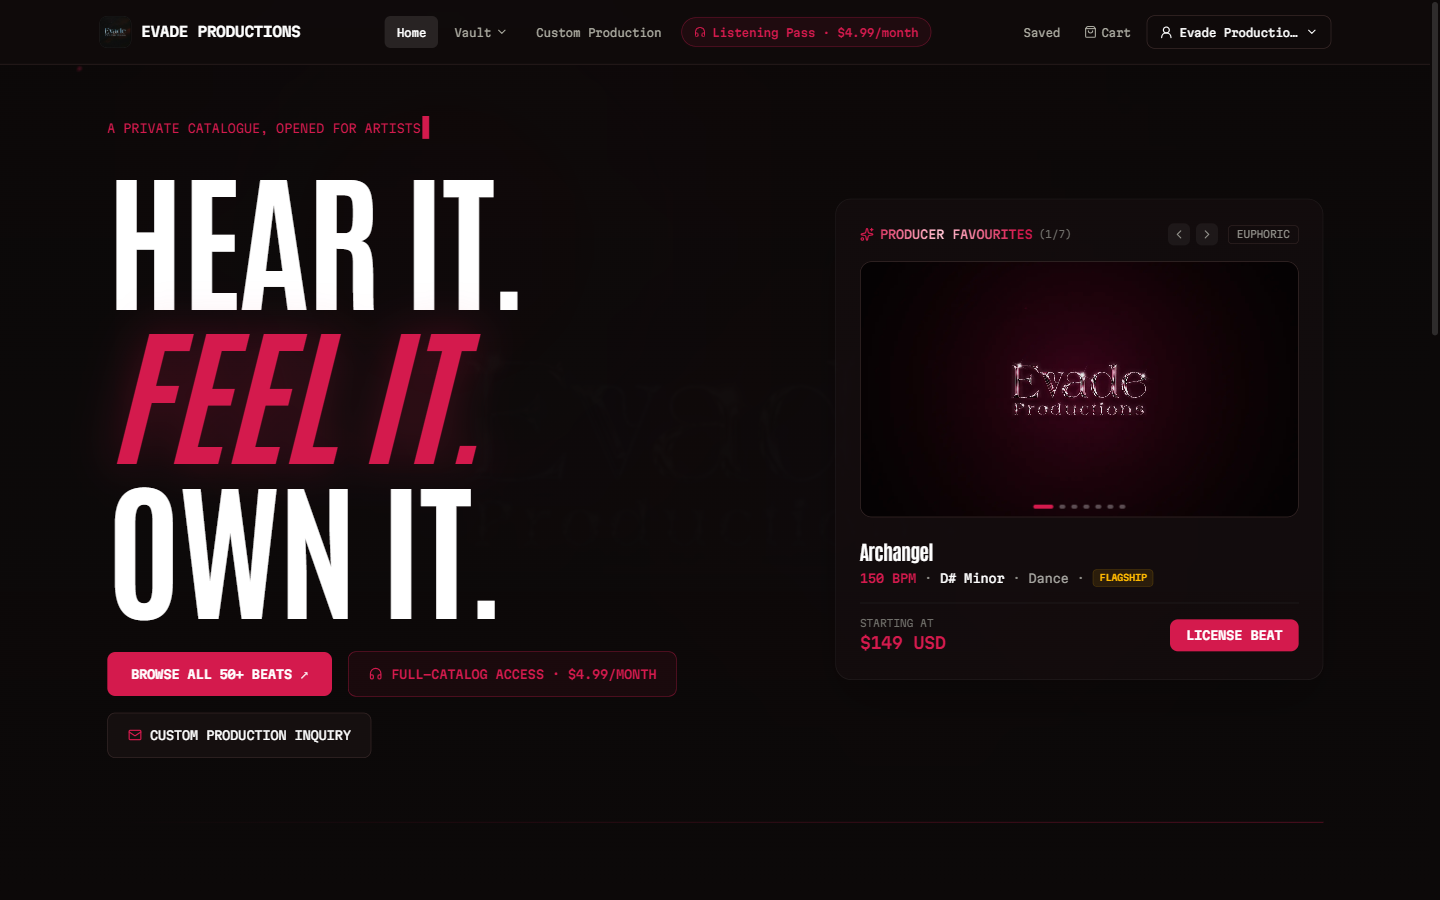
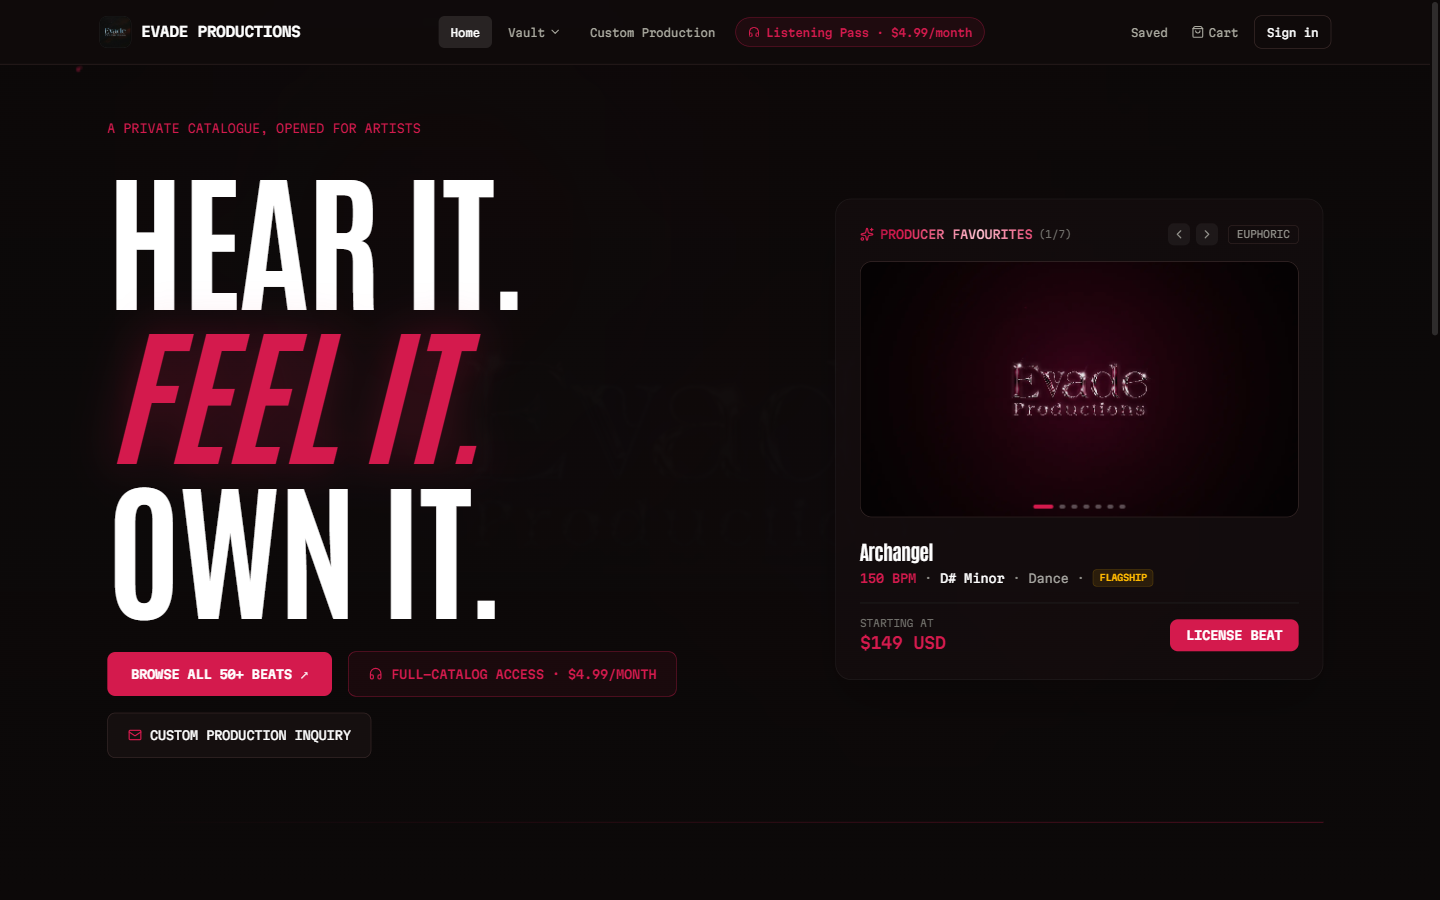
docs: add user guide and screenshots

diff --git a/README.md b/README.md
@@ -8,16 +8,70 @@ Beat Vault is the home of Evade Productions, a producer storefront where artists
 
 > This repository is a public showcase. The source code is private and all rights are reserved.
 
-## What you can do
+## Quick start guide
 
-- **Browse and preview beats.** Search the catalog and listen to a short preview of every beat before you decide.
-- **License instantly.** Pick the license tier that fits your release and pay securely. Your files and license are ready as soon as payment clears.
-- **Exclusive rights.** Buy a beat exclusively and it is taken off the catalog for everyone else.
-- **Full-Catalog Listening Pass.** A monthly membership that lets you stream complete tracks across the catalog to audition hooks and arrangements. It is listening only and does not include downloads or commercial rights.
-- **Stems and project files.** Higher license tiers include extra deliverables, delivered within 48 hours of purchase.
-- **Custom production.** Send an enquiry for a beat made for you, review a quote and pay online.
-- **Your account.** Keep your purchases, licenses and downloads in one place, with fresh download links whenever you need them.
-- **Support.** Signed-in customers can open a support ticket, follow replies and get email updates that link back to their ticket.
+### 1. Find a beat
+
+Open the [beat directory](https://evadeproductions.com/beats). Search by title, BPM, key, genre or tag, filter by genre or feel, and sort the list. Tap the heart on any beat to save it for later.
+
+![Beat directory](docs/beats.png)
+
+### 2. Listen to a preview
+
+Press play on any beat to hear a short public preview. A **PREVIEW** badge shows while you listen, and the progress bar reflects the preview length, not the full track. When it ends you can replay it or choose a license or the Listening Pass.
+
+### 3. Choose a license
+
+Each beat shows its starting license price. Open the license options to compare tiers in plain terms, including what you can release, and which tiers include stems and project files. Read the [license terms](https://evadeproductions.com/terms) before you buy.
+
+![License and terms](docs/licenses.png)
+
+### 4. Check out
+
+Add beats to your cart, sign in, and pay securely online. You need an account so that your purchases and license stay tied to you.
+
+### 5. Get your files
+
+After payment you receive your license and download links in your account and by email. Tiers that include stems or project files are delivered within 48 hours. If a link expires, generate a fresh one from your account at any time.
+
+### 6. Exclusive rights
+
+If you buy a beat exclusively, it is removed from the catalog so nobody else can license it.
+
+## Full-Catalog Listening Pass
+
+Want to audition more than previews? The [Listening Pass](https://evadeproductions.com/listening-pass) is a separate monthly membership at $4.99 per month. It lets you stream complete tracks across the catalog to test hooks, verses and arrangements. You can cancel any time from your subscription page.
+
+It is listening only. It does not include downloads, stems, project files, ownership or any right to release music made with a beat. To use a beat in a release you still need a license.
+
+![Listening Pass](docs/listening-pass.png)
+
+## Custom production
+
+Need something made for you? Use the [custom production](https://evadeproductions.com/customproduction) page to describe your project. You will get a reply with a quote, and you can pay online when you are ready to start.
+
+![Custom production](docs/custom-production.png)
+
+## Your account
+
+Sign in from the top right of any page. Your account holds your purchases, licenses, downloads and saved beats. Create an account with your email and verify it to unlock support.
+
+## Getting help
+
+Open the [support page](https://evadeproductions.com/support). Support tickets need a signed-in account with a verified email.
+
+1. Sign in and open a new ticket.
+2. You get an email with your ticket reference and a link to the ticket.
+3. Follow replies and respond from **My Support Tickets** in your account. Replies are made in the account, not by email.
+4. Email notifications tell you when we answer or need more information.
+
+![Support](docs/support.png)
+
+## On your phone
+
+The whole site works on mobile, including browsing, previews, cart and your account.
+
+<p align="center"><img src="docs/mobile.png" alt="Mobile view" width="260"></p>
 
 ## Built for trust
 
